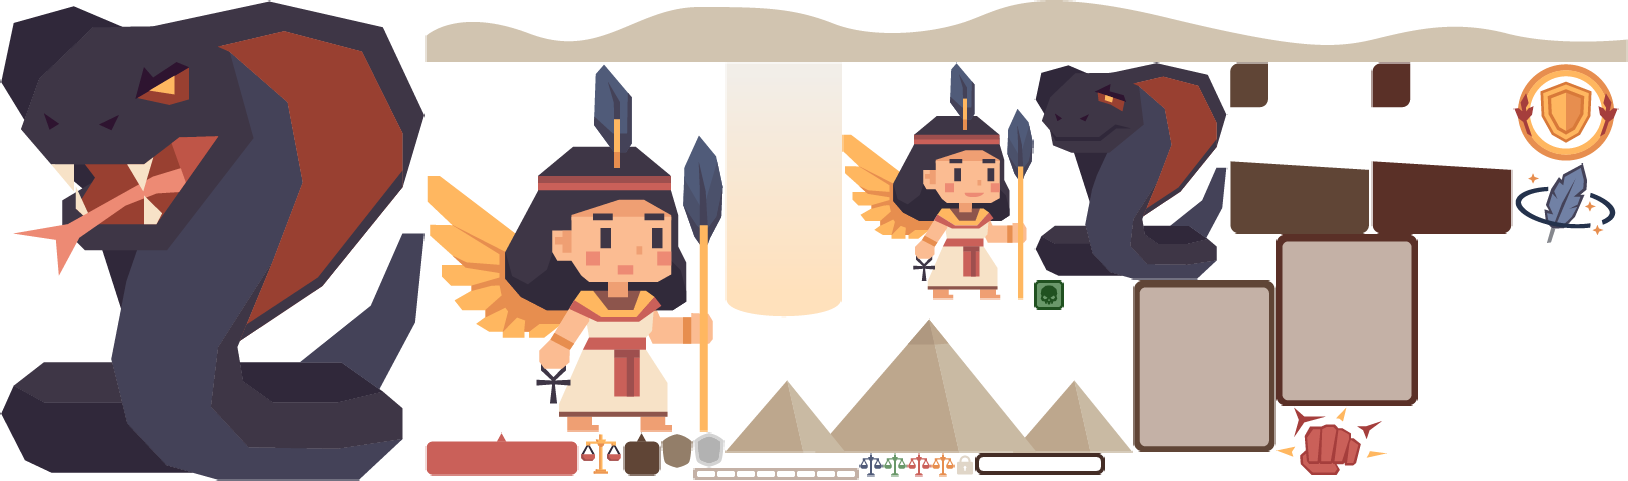
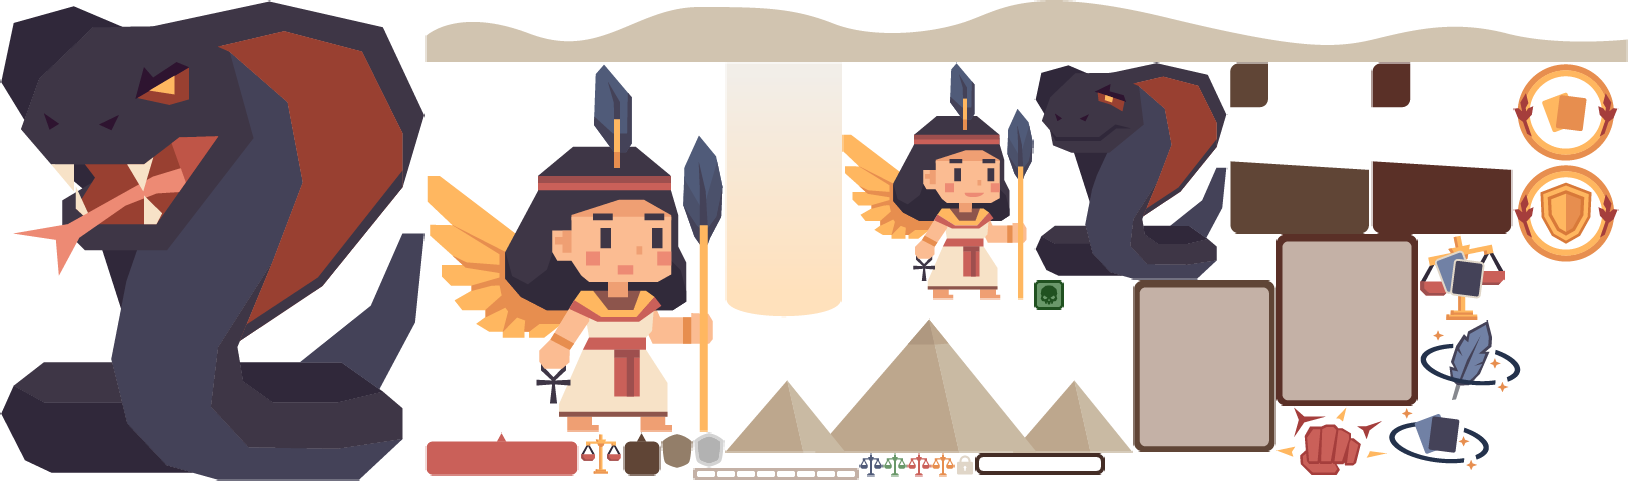
feat: add card draw type effect

Changed region(s): [[0.86, 0.343, 1.0, 0.8108], [0.8292, 0.842, 0.9214, 0.9667], [0.9214, 0.1559, 0.9828, 0.3119]]

diff --git a/src/ui/card/card.ts b/src/ui/card/card.ts
@@ -47,11 +47,12 @@ export class Card extends Phaser.GameObjects.Container {
     const [cardWidth, cardHeight] = SIZE.CARD;
     const LEFT = -cardWidth / 2 + 8;
     const TOP = -cardHeight / 2 + 8;
+    const isApplyRedCard = this.metadata.id === "c_00024";
     const bg = scene.add.image(
       0,
       0,
       ATLAS_KEY.UI_COMPONENT,
-      TEXTURE_KEY.CARD_BG,
+      isApplyRedCard ? TEXTURE_KEY.CARD_BG_RED : TEXTURE_KEY.CARD_BG,
     );
     const cardImage = scene.add.image(
       0,
@@ -64,7 +65,7 @@ export class Card extends Phaser.GameObjects.Container {
       0,
       0,
       ATLAS_KEY.UI_COMPONENT,
-      TEXTURE_KEY.CARD_TOP,
+      isApplyRedCard ? TEXTURE_KEY.CARD_TOP_RED : TEXTURE_KEY.CARD_TOP,
     );
     const titleLabel = scene.add
       .text(LEFT, 32, this.metadata.title, {
@@ -161,6 +162,12 @@ export class Card extends Phaser.GameObjects.Container {
       case "c_00009":
       case "c_00010":
         return TEXTURE_KEY.CARD_SHIELD;
+      case "c_00022":
+        return TEXTURE_KEY.CARD_SHIELD_DRAW;
+      case "c_00023":
+        return TEXTURE_KEY.CARD_FEATHER_DRAW;
+      case "c_00024":
+        return TEXTURE_KEY.CARD_IMBALANCE_DRAW;
       default:
         return TEXTURE_KEY.CARD_FIST;
     }

diff --git a/src/characters/maat/maat.ts b/src/characters/maat/maat.ts
@@ -7,7 +7,7 @@ import {
   TEXTURE_KEY,
 } from "~/constants";
 import { GameManager } from "~/manager";
-import { EStatusType, TCardMetadata } from "~/type";
+import { EEffect, EStatusType, TCardMetadata } from "~/type";
 import { BloodBar, GameOver, ShieldGroup } from "~/ui";
 import {
   delayedCallAsync,
@@ -99,10 +99,13 @@ export class Maat
     if (card.shield > 0) {
       this.addShield(card.shield * multiply);
       await delayedCallAsync(this.scene, 500);
-      gm.setApplyingEffect(false);
+    }
+    gm.setApplyingEffect(false);
+    // TODO: extra effects
+    if (card.effects.some((e) => e.type === EEffect.CARD_DRAW)) {
+      gm.drawCards(this.scene);
     }
     await gm.checkLibraStrike(multiply);
-    // TODO: check extra effects
   }
 
   public async applyDamage(damage: number, isIgnoreShield: boolean = false) {

diff --git a/src/characters/opponent/opponent.ts b/src/characters/opponent/opponent.ts
@@ -1,6 +1,7 @@
 import { ATLAS_KEY, AUDIO_KEY, SIZE, TEXTURE_KEY } from "~/constants";
 import { GameManager } from "~/manager";
 import {
+  EEffect,
   EOpponentActionable,
   TCardMetadata,
   TOpponentMetadata,
@@ -122,7 +123,10 @@ export class Opponent
     if (card.damage && card.damage > 0) {
       const gm = GameManager.getInstance();
       const multiply = await gm.checkLibraSetBalanced();
-      // TODO: check effects
+      // TODO: extra effects
+      if (card.effects.some((e) => e.type === EEffect.CARD_DRAW)) {
+        gm.drawCards(this.scene);
+      }
       await this.dealtDamage(card.damage, multiply);
       await gm.checkLibraStrike(multiply);
       if (this.scene) await delayedCallAsync(this.scene, 500);

diff --git a/src/constants/texture-key.ts b/src/constants/texture-key.ts
@@ -33,6 +33,9 @@ export const TEXTURE_KEY = {
   MAAT_SMILE: "maat-smile.png",
   APOPHIS_CRY: "apophis-cry.png",
   MAAT: "maat.png",
+  CARD_FEATHER_DRAW: "card-feather-draw.png",
+  CARD_SHIELD_DRAW: "card-shield-draw.png",
+  CARD_IMBALANCE_DRAW: "card-imbalance-draw.png",
 
   // In character atlas
   SHABTI: "shabti.png",

diff --git a/src/characters/maat/maat-sprite.ts b/src/characters/maat/maat-sprite.ts
@@ -40,7 +40,7 @@ export class MaatSprite extends Phaser.GameObjects.Sprite {
         14,
         28,
       ),
-      frameRate: 30,
+      frameRate: 35,
     });
     this.anims.create({
       key: this.ANIM_KEY.LIBRA_STRIKE,

diff --git a/src/type/effect.type.ts b/src/type/effect.type.ts
@@ -14,6 +14,8 @@ export enum EEffect {
   PURIFY = "purify",
   CRITICAL_UP = "critical_up",
   BLIND = "blind",
+
+  CARD_DRAW = "card_draw",
 }
 
 export type TEffect = {

diff --git a/src/manager/game-manager.ts b/src/manager/game-manager.ts
@@ -41,6 +41,7 @@ const DEFAULT_AVAILABLE_CARD_IDS = [
   "c_00009",
   "c_00009",
   "c_00010",
+  "c_00024",
 ] as const;
 const DEFAULT_MAAT_DATA = {
   BLOOD: 30,
